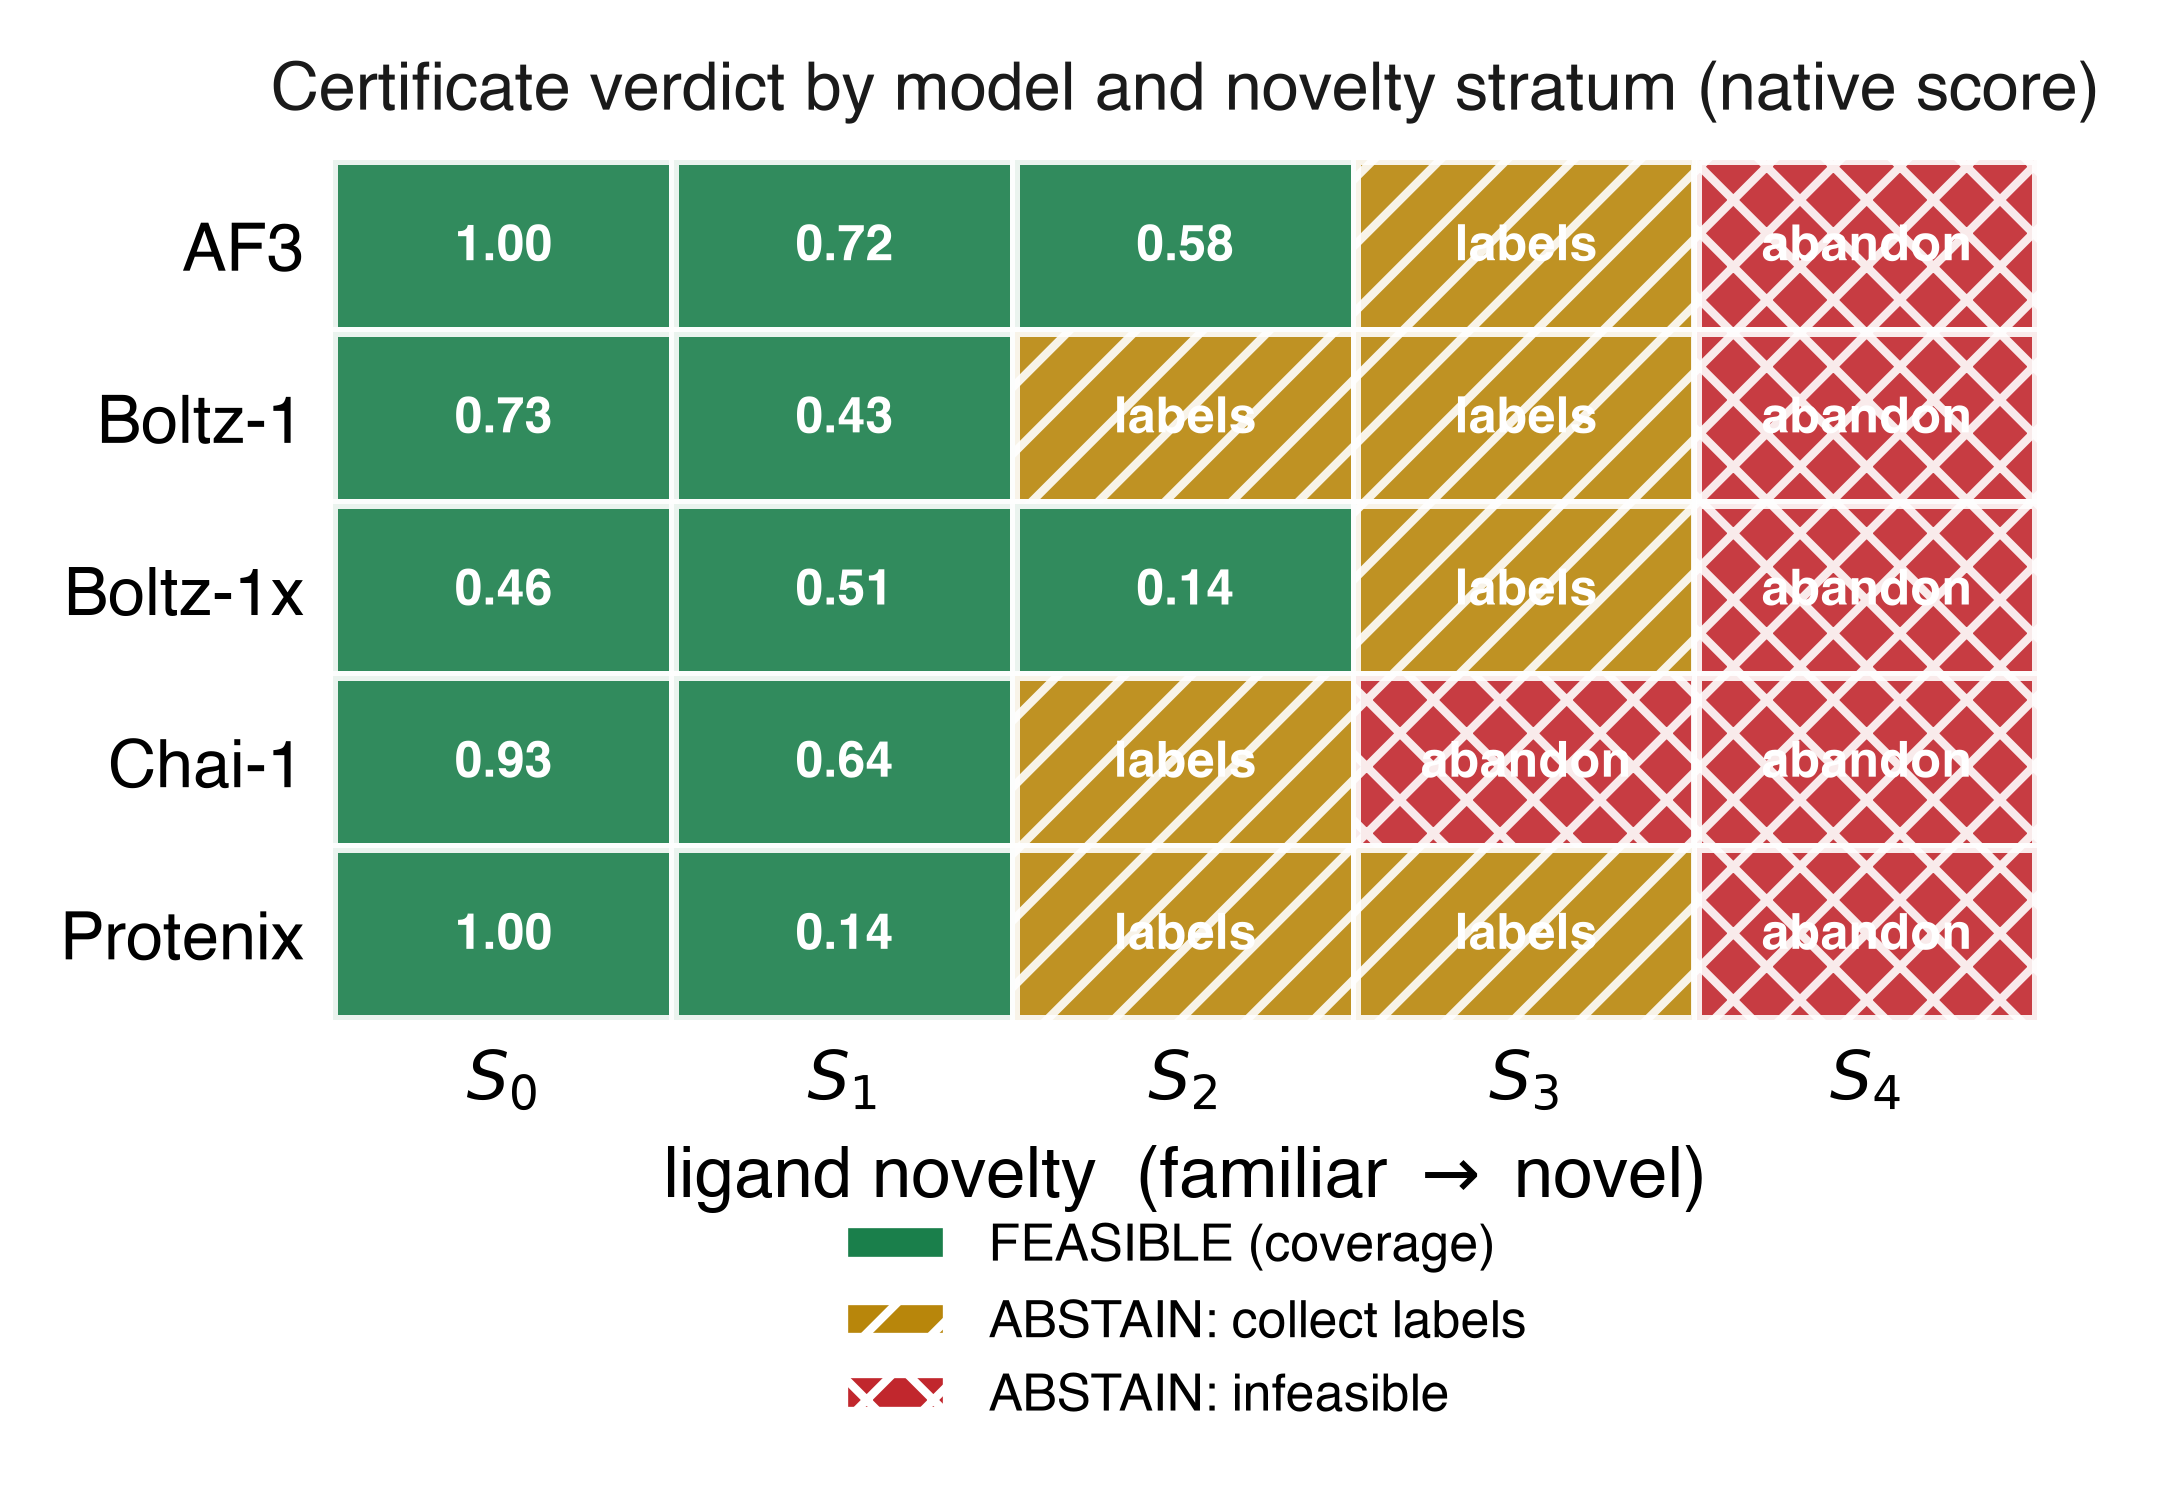
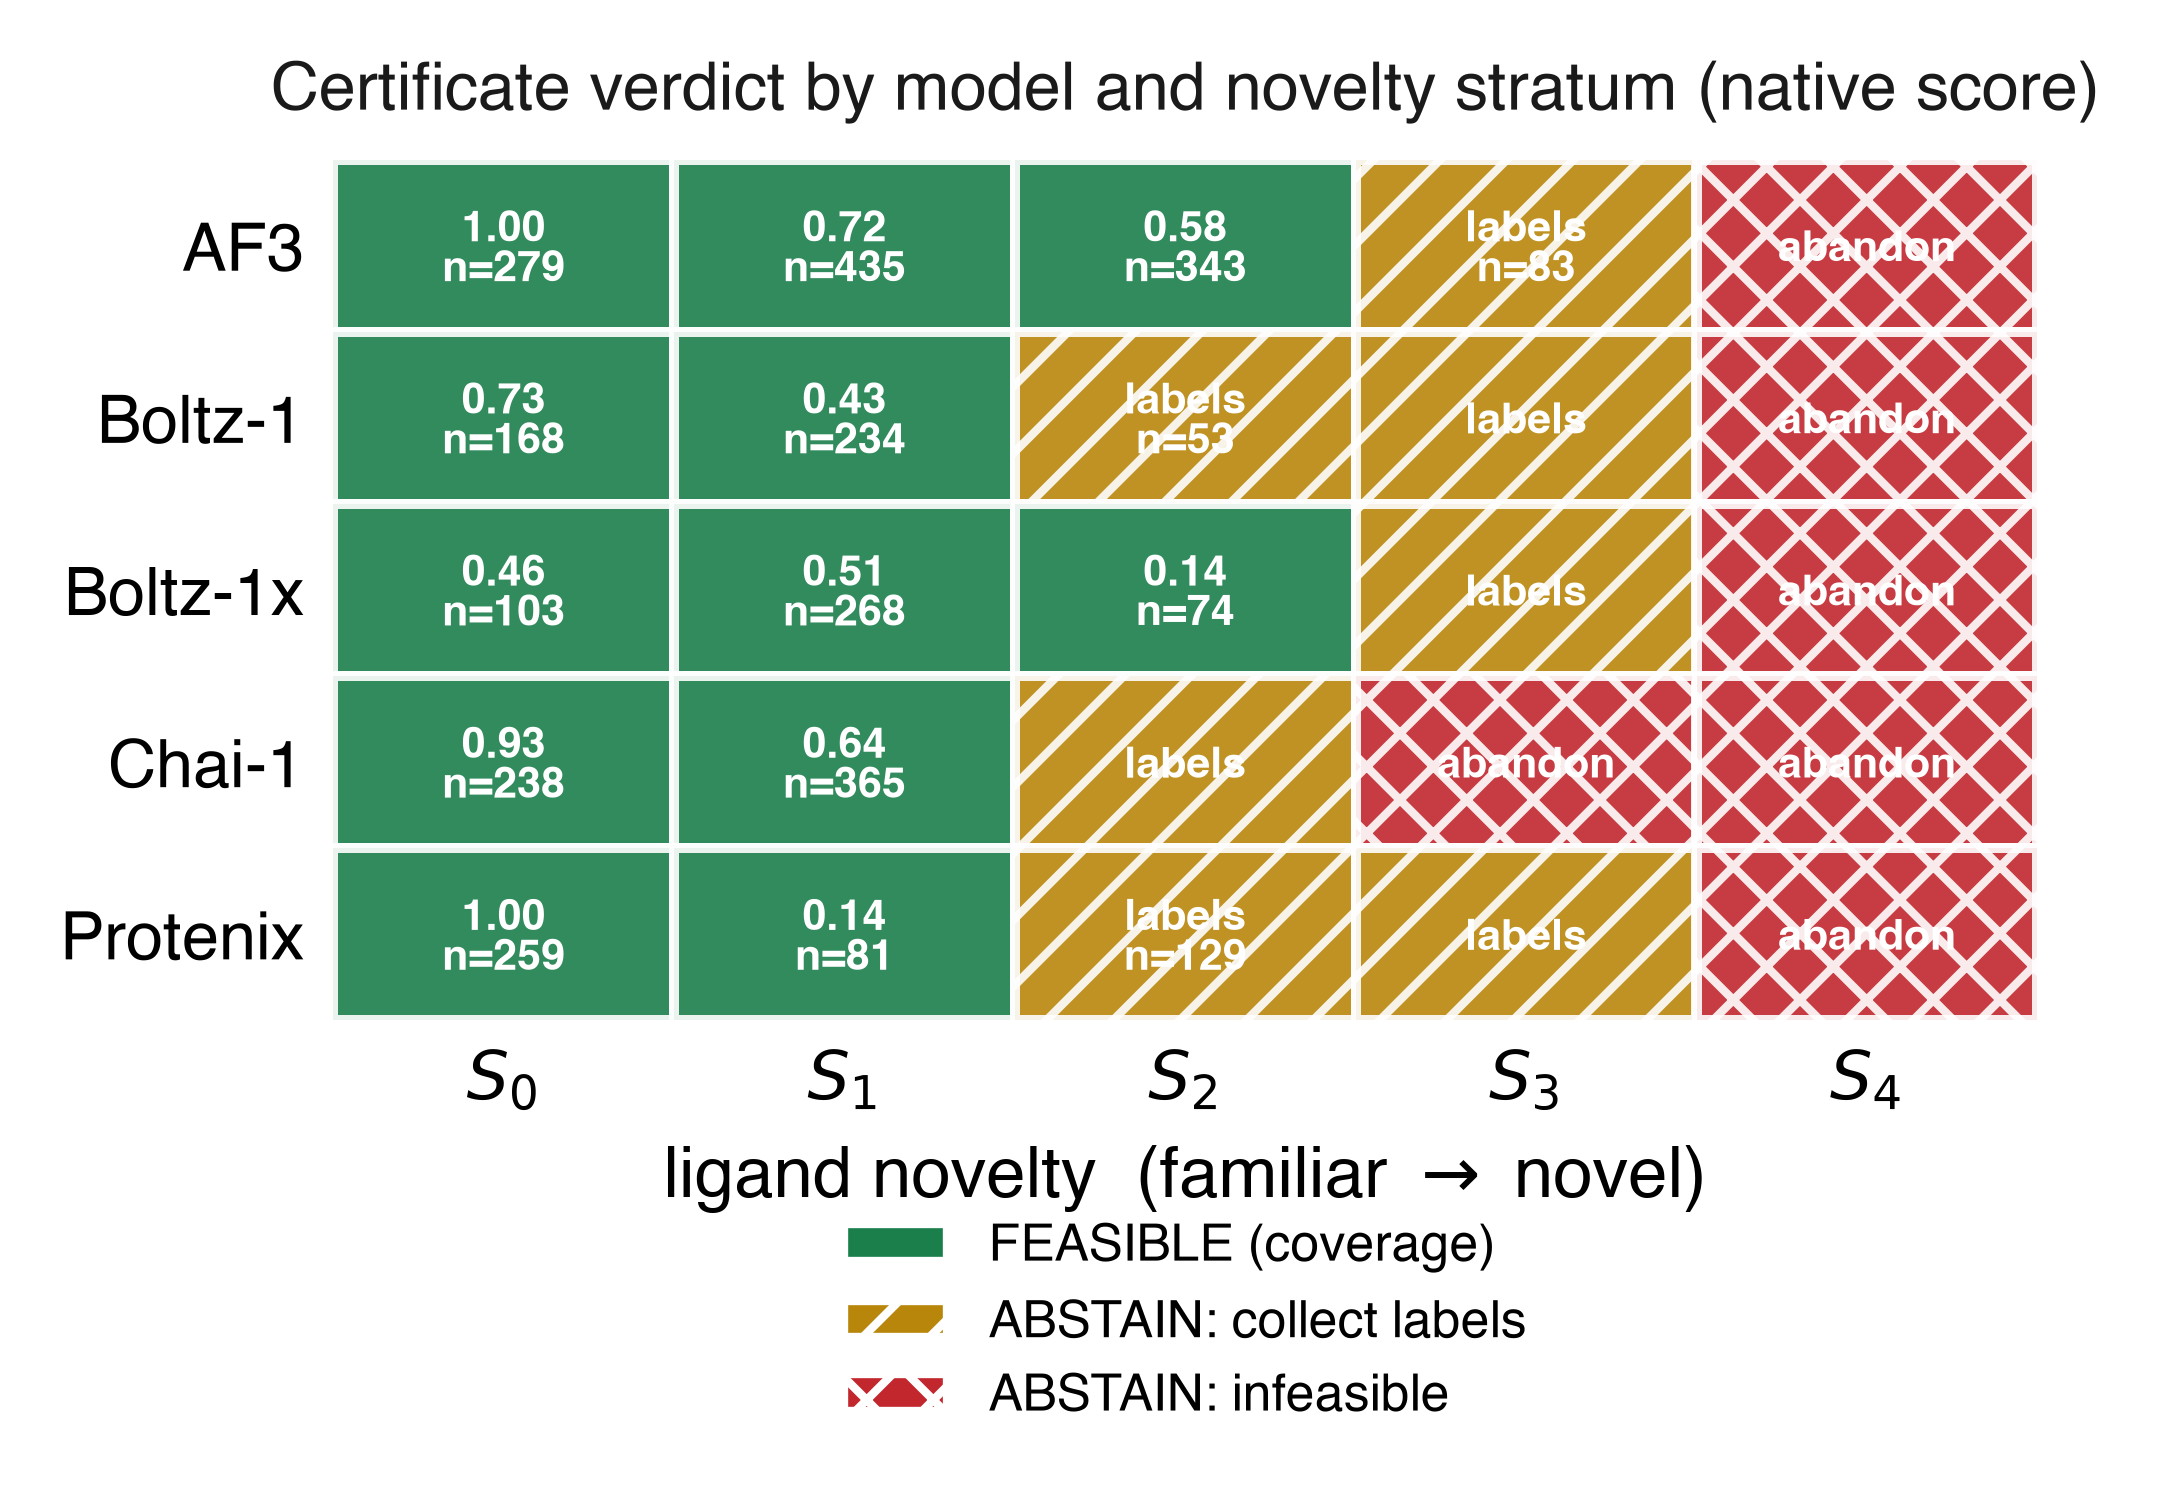
paper: audit round-2 presentation -- trim abstract, annotate heatmap n, Fig 2 bands, Zenodo
- Abstract cut from ~400 to ~340 words: dropped the 0.44 base rate, 8/12%, 52/39%, drift
  mechanics, and label-variance detail; kept the decision problem, break with range, the
  no-filter framing, the score-family count, the repair with its honest cost, the
  external/endpoint robustness, and the deliverable. Still dense (the paper carries a lot)
  but no longer a compressed paper.
- Heatmap cells now annotate accepted n alongside coverage, so a reader can check the
  >=20-accept rule directly.
- Fig 2 caption: state explicitly why point estimates carry no bands (the certified
  frontier with CP bounds is the rigorous per-coverage claim; bands would double-count).
- Data availability: note the immutable Zenodo snapshot of the repo at submission.

Compiles clean at 22 pp.

diff --git a/paper/foldgate_journal.tex b/paper/foldgate_journal.tex
@@ -56,30 +56,24 @@ A practitioner who acts on a predicted protein--ligand pose needs to know when t
 models (AlphaFold3, Boltz, Chai) report confidence scores that track pose accuracy, but a correlation is
 not a decision rule, and it is weakest on the novel pockets and chemotypes a discovery program pursues. We
 build \texttt{foldgate}, a training-free layer that turns frozen co-folding confidence into an
-accept/abstain gate carrying a finite-sample error guarantee, and we ask where that guarantee survives.
-It fails where it is needed most. Calibrating on familiar targets and deploying on novel ones drives the
-realized error among accepted poses to $0.55$ (AlphaFold3, $90\%$ CI $[0.52,0.58]$; $0.48$ to $0.66$
-across five models) against a $0.20$ target. Lowering coverage does not recover it, and neither does a
-better score: across a frozen score family (global ranking score, interface ipTM, and the ligand-local
-pLDDT that is the field's pose-triage signal), $13$ of the $40$ non-reference model-by-novelty-stratum
-cells admit \emph{no} threshold on \emph{any} of them reaching the target at any coverage, so abstention
-is the only certified action on structurally novel targets. The cause is a base-rate collapse rather than
-a loss of ranking signal: the frozen score still separates correct from incorrect poses there (AUROC $0.56$
-to $0.71$ across models), but the base rate is too low for any threshold to certify. An exact decomposition
-isolates the responsible term, shows it is invisible to any label-free reweighting, and turns it into a
-diagnostic that picks the repair from a small labeled probe. Group-conditional recalibration restores
-per-stratum control (AlphaFold3 certifies $52\%$ and $39\%$ of the moderately-novel strata, against $8\%$
-and $12\%$ before). The cheap side of the layer has a real limit: the native single-score gate,
-evaluated leakage-free, certifies almost no usable coverage, and the gate that does, retaining $73\%$ of
-AlphaFold3 poses at a certified risk bound of $0.192$, buys that with a combined feature that costs several
-model inferences per target rather than one released prediction. We price the repair rather than assert it:
-on the order of $80$ in-stratum crystal structures is where a moderate novelty stratum begins to certify
-(median coverage $0.22$ to $0.48$, with wide run-to-run variance), reliable coverage takes the full pool,
-and the most novel targets admit no repair by stratification at any budget. The break is a property of the
-confidence, not the benchmark or the metric: it reproduces on regenerated PoseBusters and PLINDER
-predictions and on any endpoint that requires recovering the binding-determinant interactions. The
-native-score layer runs on released predictions on CPU and ships a certificate card per model and
-novelty stratum reading FEASIBLE, ABSTAIN-and-abandon, or ABSTAIN-and-collect-labels.
+accept/abstain gate with a finite-sample error guarantee, and we map where that guarantee holds. It fails
+where it is needed most: a gate calibrated on familiar targets and deployed on novel ones realizes error
+$0.55$ (AlphaFold3; $0.48$ to $0.66$ across five models) against a $0.20$ target, because the transferred
+threshold accepts nearly every pose and so inherits the base rate of a set the model gets wrong half the
+time. Lowering coverage does not recover it, and neither does a better score: across a frozen score family
+(ranking score, interface ipTM, ligand-local pLDDT), $13$ of $40$ non-reference model-by-novelty-stratum
+cells admit no certifiable threshold at any coverage, so abstention is the only certified action on
+structurally novel targets. The score still ranks poses there (AUROC $0.56$ to $0.71$); the base rate is
+simply too low to certify, which an exact decomposition shows no label-free reweighting can fix.
+Group-conditional recalibration restores per-stratum control, and under leakage-free cross-validation
+retains $73\%$ of AlphaFold3 poses at a certified risk bound of $0.192$, though the native single-score
+gate certifies little leakage-free and this working gate costs several model inferences per target rather
+than one released prediction. We price the repair: on the order of $80$ in-stratum structures is where a
+moderate stratum begins to certify, with wide variance, and the most novel targets admit no repair by
+stratification at any budget. The break is a property of the confidence, not the benchmark or the metric:
+it reproduces on regenerated PoseBusters and PLINDER predictions and on any endpoint that requires
+recovering the binding-determinant interactions. The layer ships a certificate card per model and novelty
+stratum reading FEASIBLE, ABSTAIN-and-abandon, or ABSTAIN-and-collect-labels.
 \end{abstract}
 
 \section{Introduction}
@@ -334,9 +328,10 @@ risk (AF3 $0.55$). The break is carried by $S_3$.}
 \caption{The break as an operating characteristic. AF3 native-score selective risk against coverage,
 marginal and per ligand-novelty stratum (point estimates). The familiar stratum $S_0$ stays far below
 $\alpha$ at every coverage; the novel stratum $S_3$ sits above $\alpha$ except at the lowest coverage, and
-$S_4$ (omitted for scale) is above it throughout. The certified frontier of Sec.~\ref{sec:frontier} is
-stricter still, since it reads the Clopper-Pearson upper bound under a $\ge\!20$-accept rule rather than
-these point estimates.}
+$S_4$ (omitted for scale) is above it throughout. We show point estimates without bands deliberately: the rigorous per-coverage claim is the
+certified frontier of Sec.~\ref{sec:frontier}, which reads the Clopper-Pearson upper bound under a
+$\ge\!20$-accept rule and is uniformly stricter than these curves, so bands here would double-count the
+uncertainty the frontier already carries.}
 \label{fig:riskcov}
 \end{figure}
 
@@ -971,7 +966,8 @@ CPU and ships as certificate cards per model and novelty stratum, so a team can 
 it commits.
 
 \textbf{Data and code availability.} Code and calibration tables are at
-\url{https://github.com/rikhinkavuru/foldgate} under the MIT license; a one-command \texttt{make repro}
+\url{https://github.com/rikhinkavuru/foldgate} under the MIT license, with an immutable Zenodo snapshot of
+the repository at submission (DOI assigned on deposit) so the artifact is citable and permanent; a one-command \texttt{make repro}
 reproduces the full tabular pipeline by default from a pinned environment (\texttt{uv.lock}, fixed
 \texttt{numpy} seeds and \texttt{PYTHONHASHSEED}), with the structure-stream and external-GPU arms behind
 opt-out flags. The analysis is deterministic under the pinned environment (pure CPU \texttt{numpy}/scikit-learn,

diff --git a/experiments/make_riskcoverage_and_heatmap.py b/experiments/make_riskcoverage_and_heatmap.py
@@ -87,10 +87,15 @@ def heatmap():
             ax.add_patch(plt.Rectangle((s, i), 1, 1, facecolor=col, edgecolor="white",
                                        lw=1.2, hatch=hatch, alpha=0.9))
             cov = card.get("retained_coverage")
-            txt = f"{cov:.2f}" if isinstance(cov, (int, float)) and v == "FEASIBLE" else \
-                  ("labels" if v == "ABSTAIN-underpowered" else "abandon")
-            ax.text(s + 0.5, i + 0.5, txt, ha="center", va="center", fontsize=6.0,
-                    color="white", weight="bold")
+            acc = card.get("accepted_n_targets")
+            if v == "FEASIBLE" and isinstance(cov, (int, float)):
+                txt = f"{cov:.2f}\nn={acc}"
+            elif v == "ABSTAIN-underpowered":
+                txt = f"labels\nn={acc}" if acc else "labels"
+            else:
+                txt = "abandon"
+            ax.text(s + 0.5, i + 0.5, txt, ha="center", va="center", fontsize=5.2,
+                    color="white", weight="bold", linespacing=1.0)
     ax.set_xticks(np.arange(5) + 0.5)
     ax.set_xticklabels([f"$S_{s}$" for s in range(5)], fontsize=8)
     ax.set_yticks(np.arange(5) + 0.5)